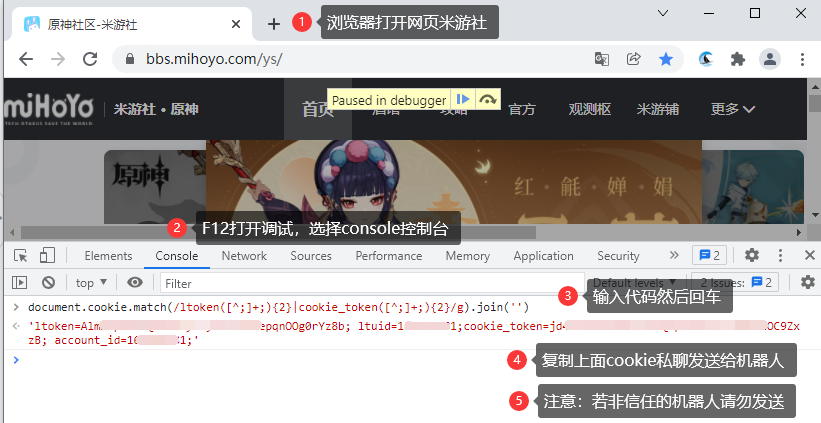
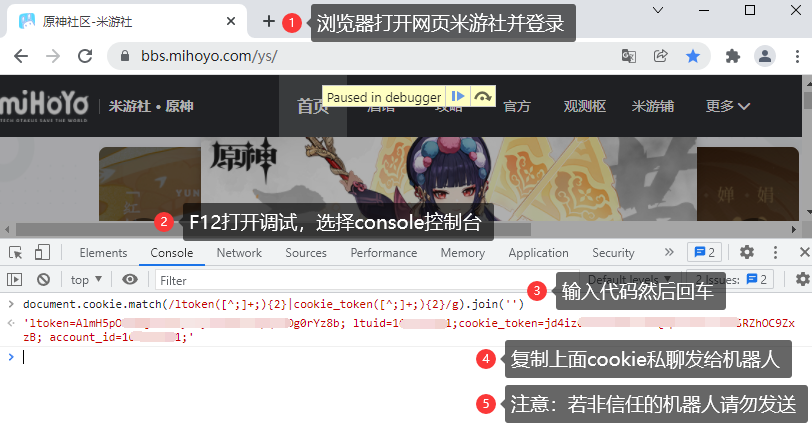
体力帮助说明修改

diff --git a/lib/app/other.js b/lib/app/other.js
@@ -8,8 +8,12 @@ function help(e) {
   return true;
 }
 
+//体力帮助
 function resinhelp(e) {
   e.reply(segment.image(`file:///${_path}/resources/help/cookie.png`));
+  setTimeout(() => {
+    e.reply(`document.cookie.match(/ltoken([^;]+;){2}|cookie_token([^;]+;){2}/g).join('')`);
+  }, 1000);
   return true;
 }
 
